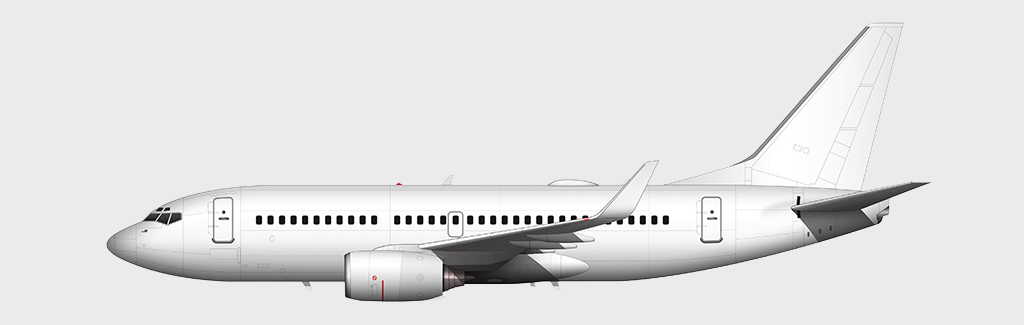
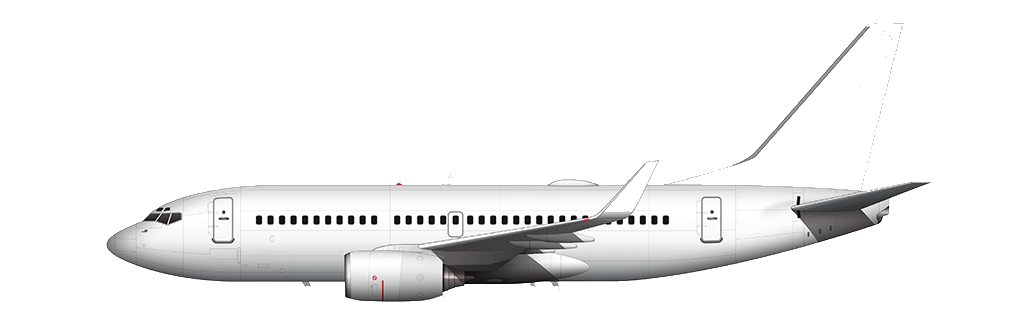
ACQUIRE: sort cheapest-first; fix 3 non-transparent aircraft images
- ACQUIRE new-aircraft list now sorts by purchasePrice ascending (least
  expensive first), matching the used-market list's existing cheapest-first
  order. Route lists unchanged.
- A359 / B737700 / B773 illustrations shipped with an opaque #EBEBEB (Figma
  canvas) background instead of transparent. Removed it via an edge flood-fill
  (only background-connected gray cleared; aircraft preserved). All 31
  illustrations verified transparent; planes intact (magenta-composite checked).

diff --git a/AirlineArchitect/AirlineArchitect/ContentView.swift b/AirlineArchitect/AirlineArchitect/ContentView.swift
@@ -200,7 +200,7 @@ struct BuyPanel: View {
         ScrollView {
             VStack(spacing: 8) {
                 // Priciest/biggest first, matching the Figma card order.
-                ForEach(AircraftType.all.sorted { $0.purchasePrice > $1.purchasePrice }) { t in
+                ForEach(AircraftType.all.sorted { $0.purchasePrice < $1.purchasePrice }) { t in
                     AircraftProfileCard(sim: sim, type: t, onBought: onBought)
                 }
             }